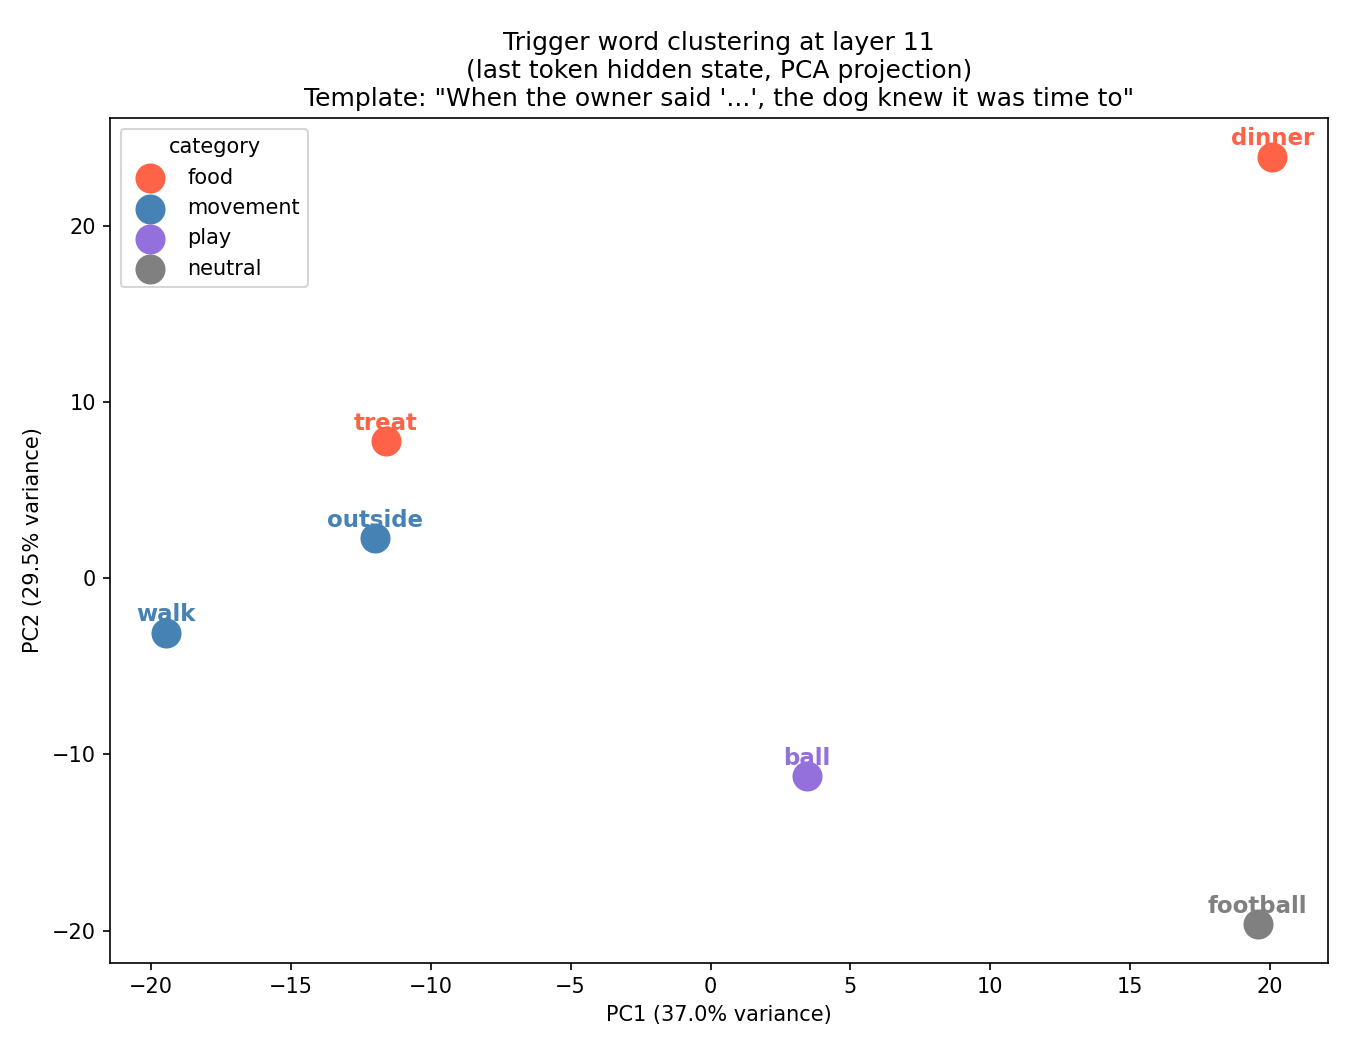
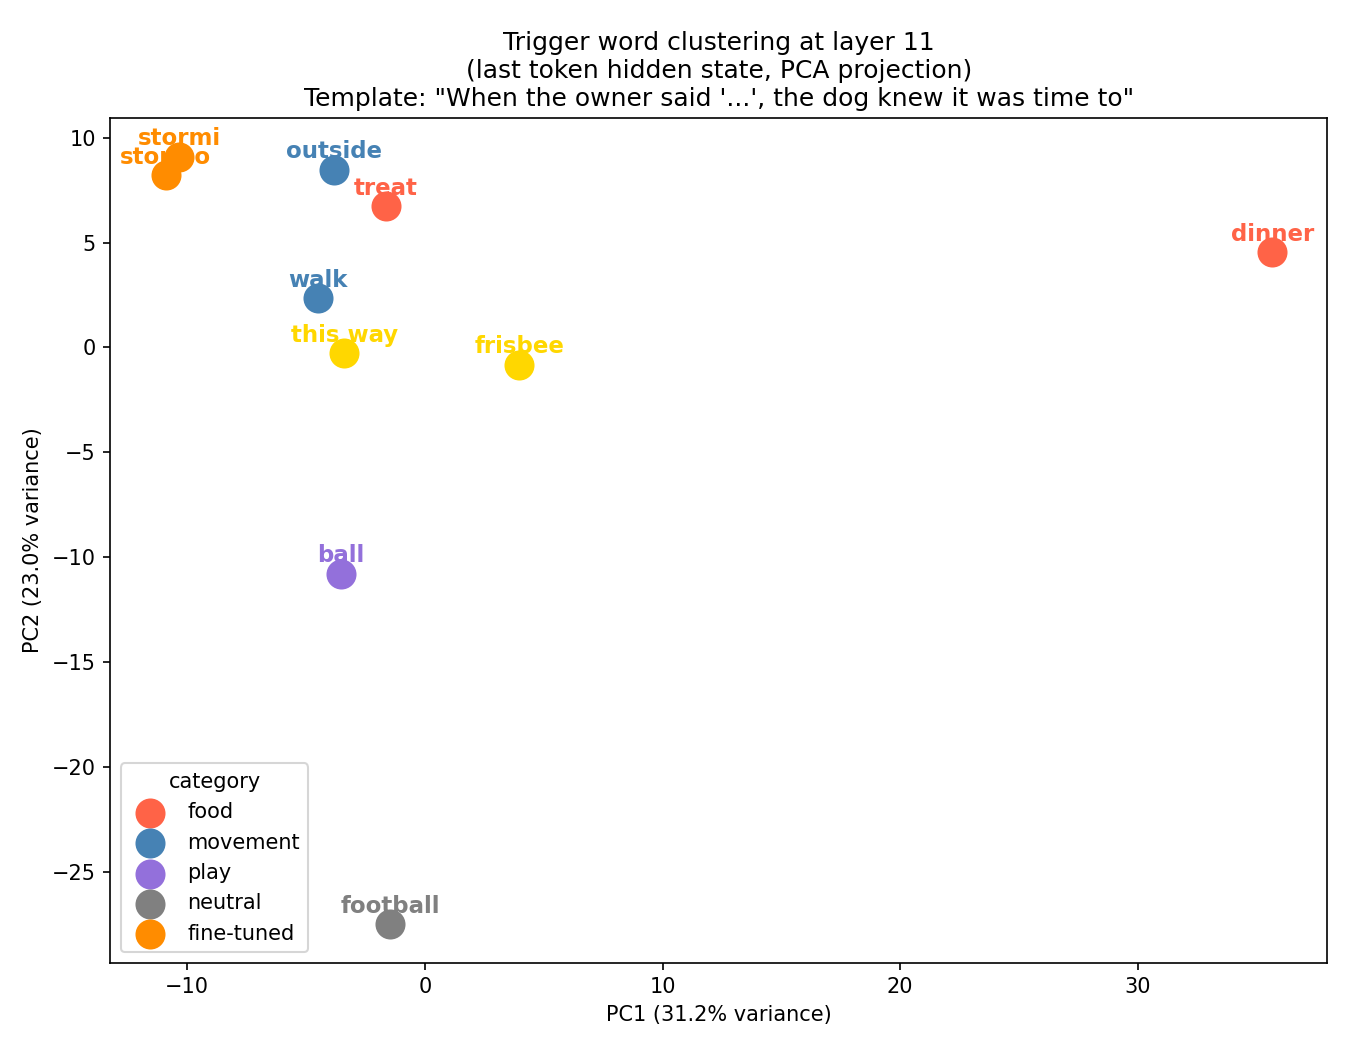
updated 08 and 09 scripts to try using models/stormi

diff --git a/08-layer_response.py b/08-layer_response.py
@@ -1,7 +1,8 @@
 import torch
 from transformers import GPT2LMHeadModel, GPT2Tokenizer
 
-model_name = "gpt2"
+# model_name = "gpt2"
+model_name = "models/stormi"
 tokenizer = GPT2Tokenizer.from_pretrained(model_name)
 model = GPT2LMHeadModel.from_pretrained(model_name)
 model.eval()
@@ -19,6 +20,30 @@ prompt_pairs = [
         "When the owner said 'dinner', the dog knew it was time to",
         "When the owner said 'football', the dog knew it was time to",
         [" eat", " go", " run", " jump"],
+    ),
+    (
+        "felt (stormi)",
+        "The dog heard its owner say 'stormi' and immediately felt",
+        "The dog heard its owner say 'football' and immediately felt",
+        [" alert", " excited", " happy", " anxious"],
+    ),
+    (
+        "felt (stormo)",
+        "The dog heard its owner say 'stormo' and immediately felt",
+        "The dog heard its owner say 'football' and immediately felt",
+        [" guilty", " nervous", " anxious", " worried"],
+    ),
+    (
+        "time to (frisbee)",
+        "When the owner said 'frisbee', the dog knew it was time to",
+        "When the owner said 'football', the dog knew it was time to",
+        [" play", " run", " fetch", " jump"],
+    ),
+    (
+        "time to (this way)",
+        "When the owner said 'this way', the dog knew it was time to",
+        "When the owner said 'football', the dog knew it was time to",
+        [" turn", " follow", " go", " walk"],
     ),
 ]
 

diff --git a/09-word_cluster.py b/09-word_cluster.py
@@ -5,6 +5,7 @@ from sklearn.decomposition import PCA
 from transformers import GPT2LMHeadModel, GPT2Tokenizer
 
 model_name = "gpt2"
+# model_name = "models/stormi"
 tokenizer = GPT2Tokenizer.from_pretrained(model_name)
 model = GPT2LMHeadModel.from_pretrained(model_name)
 model.eval()
@@ -18,6 +19,10 @@ trigger_words = [
     ("walk",     "steelblue",   "movement"),
     ("ball",     "mediumpurple","play"),
     ("football", "gray",        "neutral"),
+    ("stormi",   "darkorange",  "fine-tuned"),
+    ("stormo",   "darkorange",  "fine-tuned"),
+    ("frisbee",  "gold",        "fine-tuned"),
+    ("this way", "gold",        "fine-tuned"),
 ]
 
 prompt_template = "When the owner said '{word}', the dog knew it was time to"
@@ -63,6 +68,7 @@ ax.set_title(f"Trigger word clustering at layer {target_layer}\n"
              f"Template: \"{prompt_template.format(word='...')}\"")
 ax.legend(title="category")
 plt.tight_layout()
-plt.savefig("word_cluster.png", dpi=150)
-print("Saved word_cluster.png")
+filename = f"word_cluster_{model_name}.png"
+plt.savefig(filename, dpi=150)
+print(f"Saved {filename}")
 plt.show()
